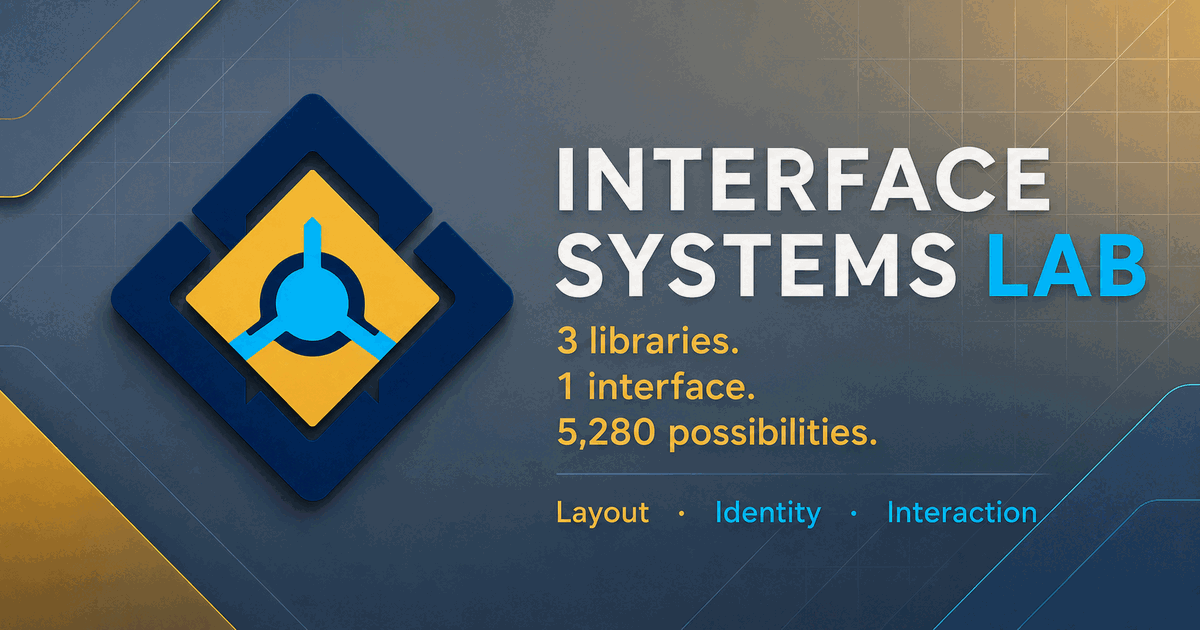
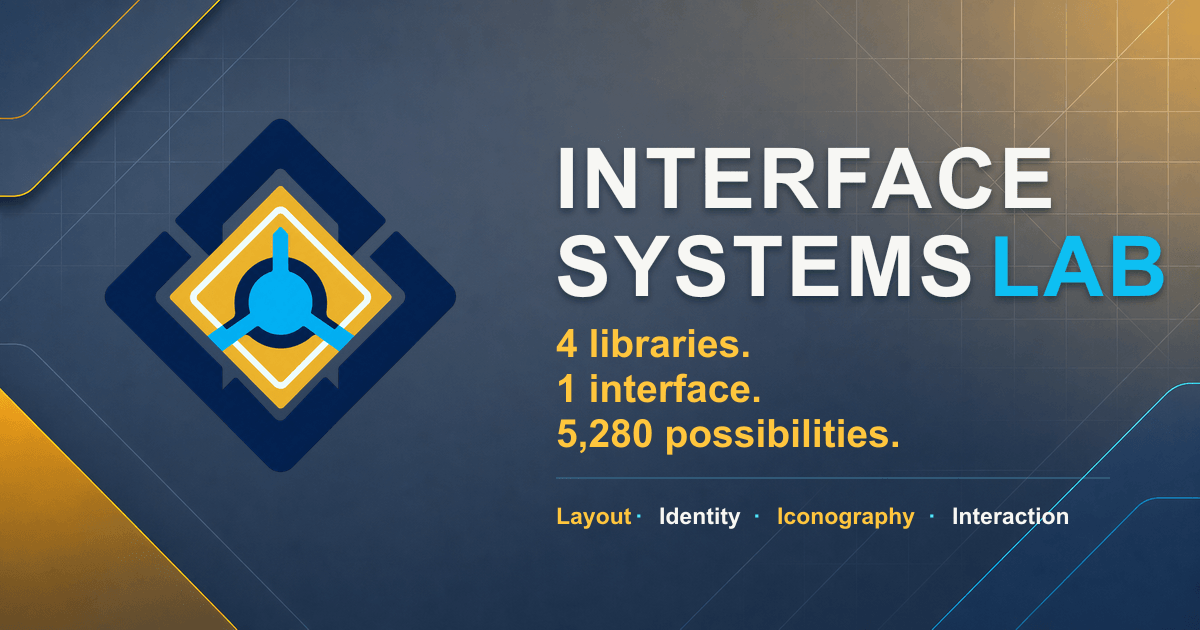
feat: align social branding with four libraries

diff --git a/app/lib/site.ts b/app/lib/site.ts
@@ -14,7 +14,7 @@ export const SITE = {
     "https://github.com/Sanderson-Technology-Enterprises/interface-systems-lab",
   socialImage: `${productionUrl}interface-systems-lab-social-card.png`,
   socialImageAlt:
-    "Interface Systems Lab social card with the text \u201c3 libraries, 1 interface, and 5,280 possibilities\u201d over layout, identity, and interaction.",
+    "Interface Systems Lab social card with the text \u201c4 libraries, 1 interface, and 5,280 possibilities\u201d over layout, identity, iconography, and interaction.",
   brandLogoPath: "android-chrome-512x512.png",
   brandLogo: `${productionUrl}android-chrome-512x512.png`,
   brandLogoAlt: "Interface Systems Lab logo",

diff --git a/tests/browser/site.spec.ts b/tests/browser/site.spec.ts
@@ -28,7 +28,7 @@ const repositoryUrl =
   "https://github.com/Sanderson-Technology-Enterprises/interface-systems-lab";
 const socialImageUrl = `${canonicalUrl}interface-systems-lab-social-card.png`;
 const socialImageAlt =
-  "Interface Systems Lab social card with the text \u201c3 libraries, 1 interface, and 5,280 possibilities\u201d over layout, identity, and interaction.";
+  "Interface Systems Lab social card with the text \u201c4 libraries, 1 interface, and 5,280 possibilities\u201d over layout, identity, iconography, and interaction.";
 const websiteId = `${canonicalUrl}#website`;
 const webpageId = `${canonicalUrl}#webpage`;
 const applicationId = `${canonicalUrl}#application`;

diff --git a/tests/ecosystem.test.ts b/tests/ecosystem.test.ts
@@ -824,7 +824,7 @@ test("site identity targets the transferred organization", () => {
   );
   assert.equal(
     site.socialImageAlt,
-    "Interface Systems Lab social card with the text \u201c3 libraries, 1 interface, and 5,280 possibilities\u201d over layout, identity, and interaction.",
+    "Interface Systems Lab social card with the text \u201c4 libraries, 1 interface, and 5,280 possibilities\u201d over layout, identity, iconography, and interaction.",
   );
   assert.equal(site.brandLogoPath, "android-chrome-512x512.png");
   assert.equal(
